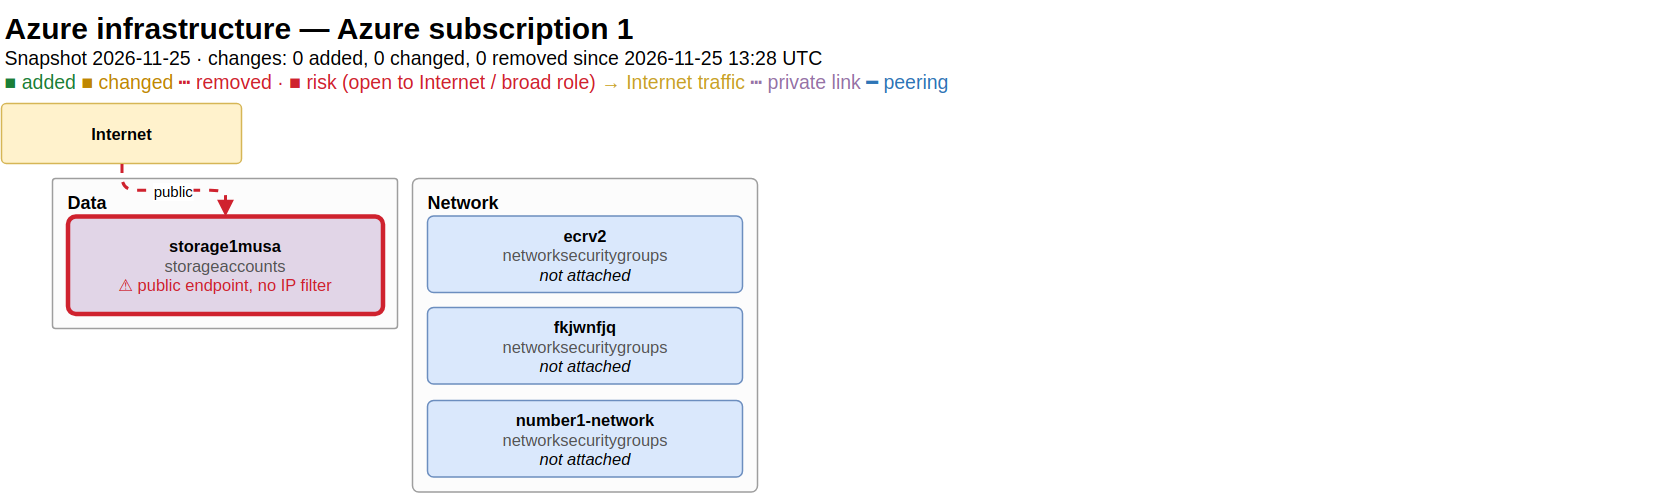
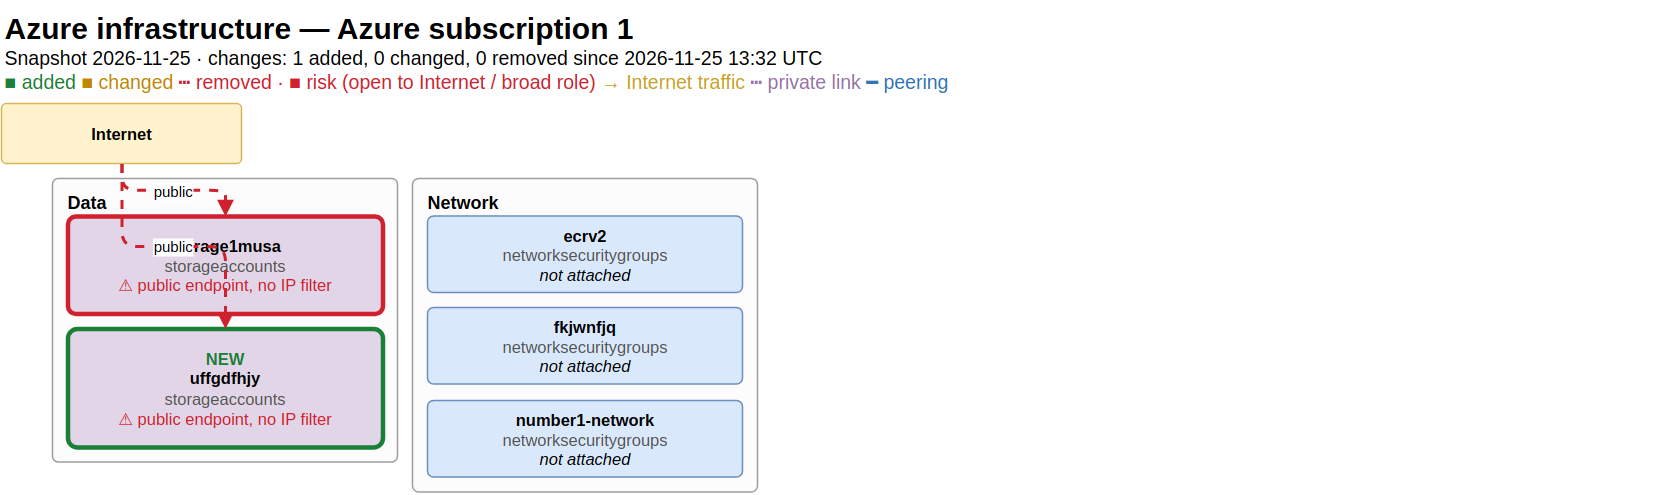
diagrams: 2026-11-25

Changed region(s): [[0.0308, 0.6364, 0.2467, 0.9394], [0.1542, 0.0909, 0.185, 0.1212], [0.0925, 0.4848, 0.1233, 0.5152]]

diff --git a/diagrams/README.md b/diagrams/README.md
@@ -1,6 +1,6 @@
 # Azure diagrams — 2026-11-25
 
-Changes: 0 added, 0 changed, 0 removed since 2026-11-25 13:28 UTC — details: [changes/2026-11-25.md](../changes/2026-11-25.md)
+Changes: 1 added, 0 changed, 0 removed since 2026-11-25 13:32 UTC — details: [changes/2026-11-25.md](../changes/2026-11-25.md)
 
 ## Infra Azure subscription 1
 

diff --git a/changes/2026-11-25.md b/changes/2026-11-25.md
@@ -1,5 +1,12 @@
 # Changes 2026-11-25
 
+## Run 2026-11-25 13:41 UTC (compared with 2026-11-25 13:32 UTC)
+
+### Added (1)
+
+- **uffgdfhjy** (storageaccounts) · RG `tritinain` · by musaxasmammedov83@gmail.com
+
+
 ## Run 2026-11-25 13:32 UTC (compared with 2026-11-25 13:28 UTC)
 
 No changes.
